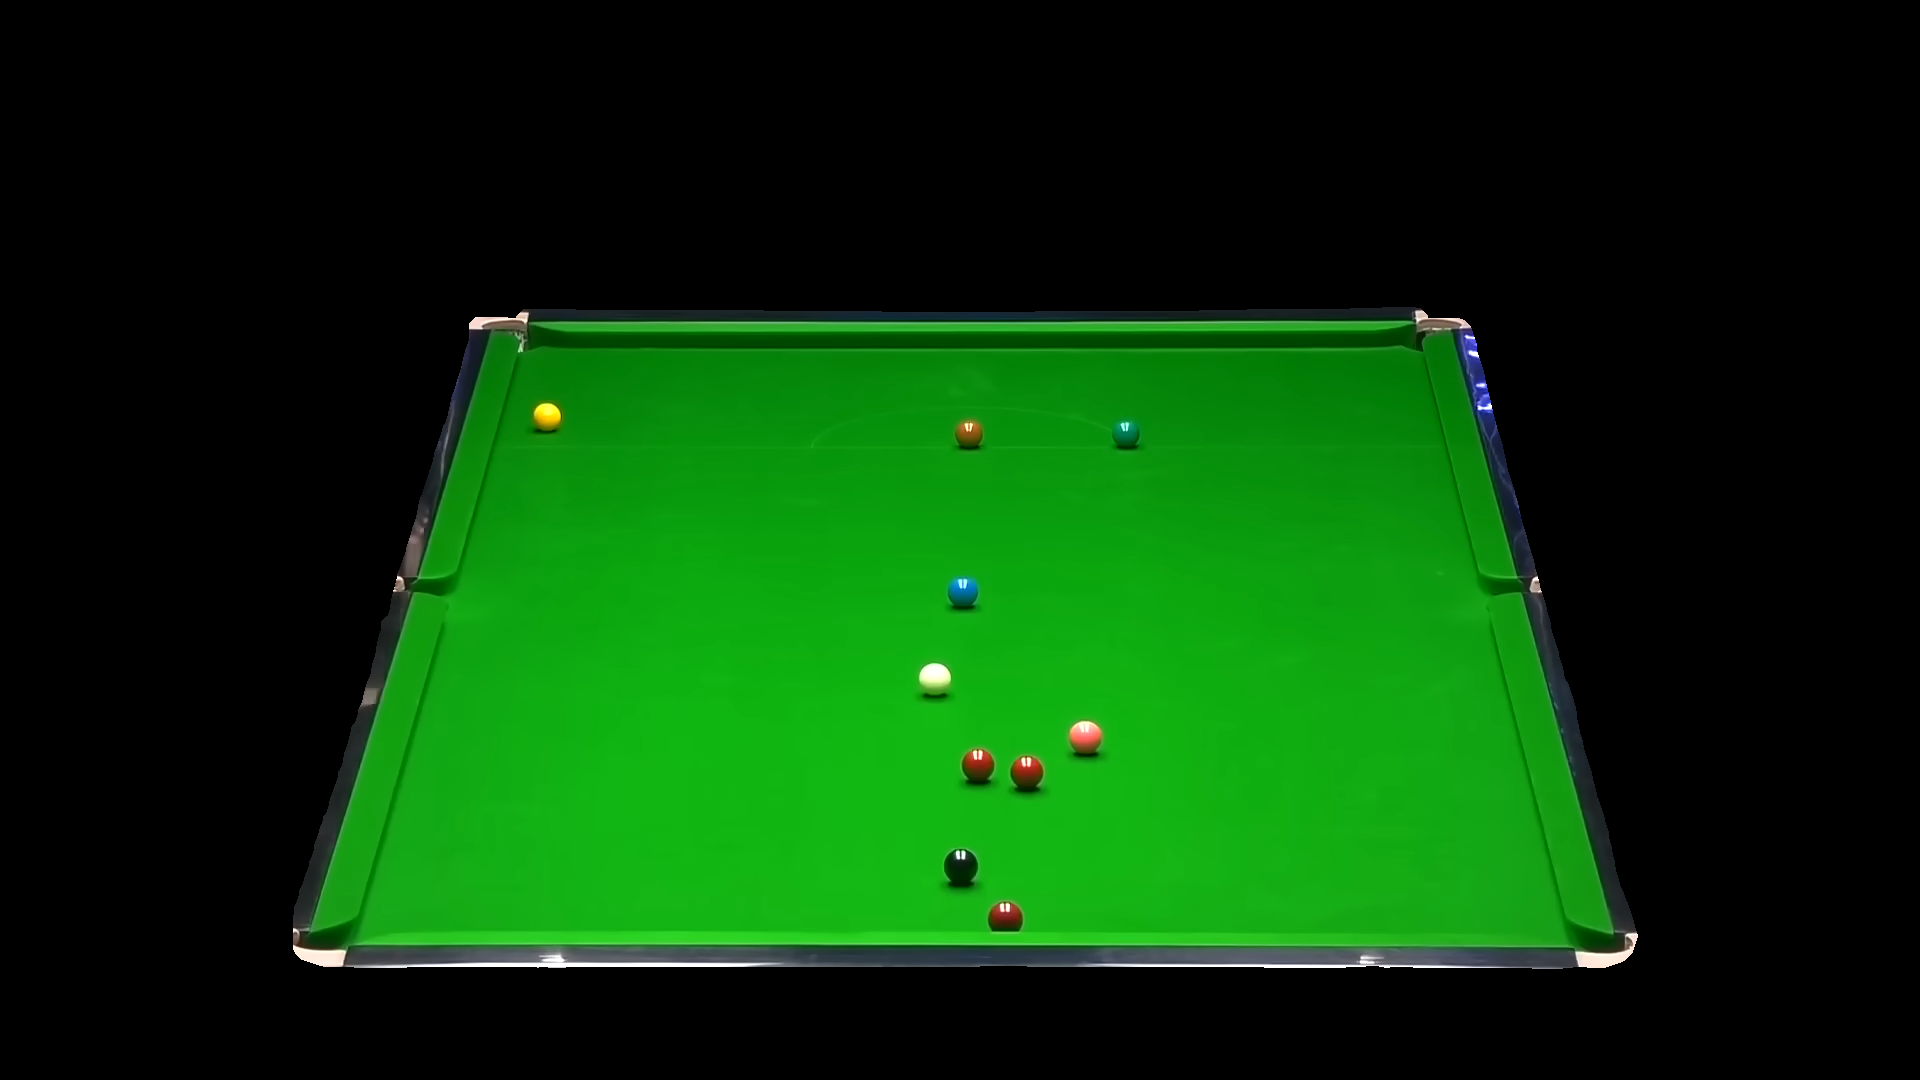
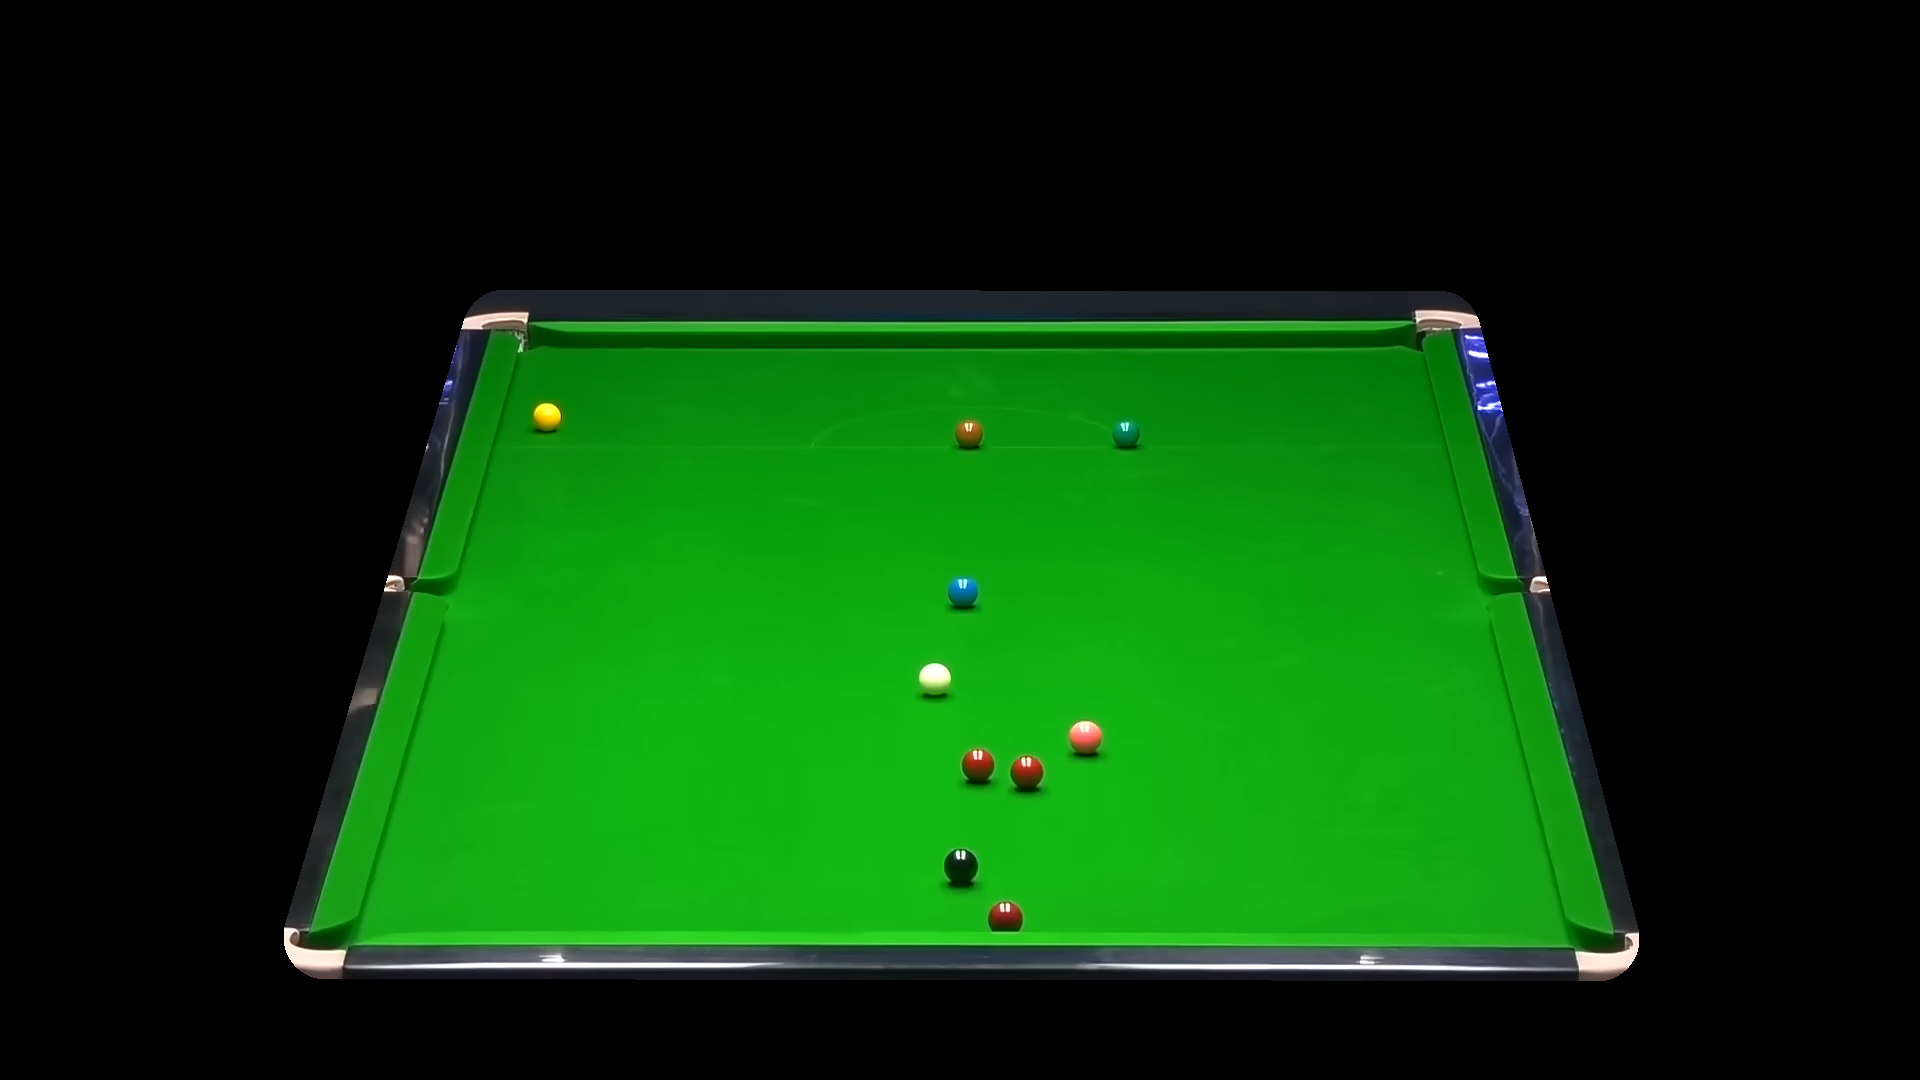
Add rough lines and masking from pockets

diff --git a/find_edges.py b/find_edges.py
@@ -122,6 +122,18 @@ def enlarge(mask, size_increase):
 
     return mask
 
+def sort_corners(corners):
+    mean_x = (corners[0][0] + \
+                corners[1][0] + \
+                corners[2][0] + \
+                corners[3][0]) / 4
+    mean_y = (corners[0][1] + \
+                corners[1][1] + \
+                corners[2][1] + \
+                corners[3][1]) / 4
+    
+    return np.array(sorted(corners, key=lambda point: np.arctan2((point[1]-mean_y), (point[0]-mean_x))))
+
 def line_mask(rho, theta, thickness, image_size):
     mask = np.zeros(image_size, dtype=np.uint8)
     cos_theta = np.cos(theta)
@@ -202,6 +214,120 @@ def get_sam_lines(mask_file=""):
 
     return lines, dilated_mask
 
+def get_lines_from_pockets(image_file, pockets):
+    # lines= [[[rho1, theta1]], [[rho2, theta2]], ...]:
+    # [[[ 9.4500000e+02  1.5707964e+00]]
+    #  [[ 3.2500000e+02  1.5707964e+00]]
+    #  [[-1.3160000e+03  2.8797932e+00]]
+    #  [[ 5.6600000e+02  2.9670596e-01]]]
+
+    # Get centres of boxes
+    pocket_points = []
+    for box in pockets["boxes"]:
+        x = (box[0] + box[2]) / 2
+        y = (box[1] + box[3]) / 2
+        pocket_points.append([x, y])
+    
+
+    # Make sure there are enough pockets detected
+    assert len(pocket_points) == 6, f"Not enough pockets detected; {len(pockets)} detected, 6 needed"
+    
+
+    # Identify which pockets are corners
+    side_pocket_idx = []
+
+    for i in range(len(pocket_points)):
+        x1 = pocket_points[i][0]
+        y1 = pocket_points[i][1]
+
+        vecs = []
+
+        for j in range(0, len(pocket_points)):
+            if i != j:
+                x2 = pocket_points[j][0]
+                y2 = pocket_points[j][1]
+
+                vec = np.array([x2-x1, y2-y1])
+
+                for k in range(len(vecs)):
+                    cos_theta = np.dot(vec, vecs[k]) / (np.linalg.norm(vec) * np.linalg.norm(vecs[k]))
+                    dtheta = np.arccos(np.clip(cos_theta, -1, 1))
+
+                    # print(pocket_points[i], pocket_points[j], pocket_points[k+1],180- np.rad2deg(dtheta))
+
+                    dtheta_threshold = 7 # degrees
+                    if dtheta > np.deg2rad(180-dtheta_threshold):
+                        # These three points are nearly colinear, so either vec or vecs[k] is the vector to the middle
+                        side_pocket_idx.append(i)
+
+                vecs.append(vec)
+
+    # print(side_pocket_idx)
+    
+    corners = []
+    for i in range(len(pocket_points)):
+        if not i in side_pocket_idx:
+            corners.append(pocket_points[i])
+    
+    corners = sort_corners(corners)
+
+    dists = []
+    for i in range(len(corners)):
+        for j in range(i+1, len(corners)):
+            x1 = corners[i][0]
+            x2 = corners[i][1]
+            y1 = corners[j][0]
+            y2 = corners[j][1]
+
+            dists.append(np.linalg.norm([x2-x1, y2-y1]))
+    
+    max_dist = max(dists)
+
+    assert len(corners) == 4, f"Wrong number of corners detected; detected {len(corners)}, needed 4"
+
+    # Get lines which go through corners
+    lines = []
+
+    for i in range(4):
+        x1 = corners[i][0]
+        y1 = corners[i][1]
+        x2 = corners[(i+1)%4][0]
+        y2 = corners[(i+1)%4][1]
+        # print(f"[{x1}, {y1}], [{x2}, {y2}]")
+
+        theta = np.arctan2(y2-y1, x2-x1) + np.pi/2
+
+        unit_vec = np.array([np.cos(theta), np.sin(theta)])
+        rho = np.dot(unit_vec, np.array([x1, y1]))
+
+        # if abs(np.cos(theta)) > abs(np.sin(theta)):
+        #     rho = x1/np.cos(theta)
+        # else:
+        #     rho = y1/np.sin(theta)
+
+        lines.append([[rho, theta]])
+
+    image = cv2.imread(image_file)
+    
+    plt.figure("Lines from NN pockets")
+    plt.title("Lines from NN pockets")
+    plt.imshow(image)
+    plotLinesPolar(lines, image.shape, "red")
+    
+    # Make mask
+    mask = np.zeros(image.shape[:2], dtype=np.uint8)
+    corners = np.array([corners], dtype=np.int32)
+    cv2.fillPoly(mask, corners, color=1)  # Set color to 1 for binary mask
+    print(max_dist)
+    mask = dilate(mask, int(max_dist/15))
+
+    plt.figure("Dilated mask")
+    plt.title("Dilated mask")
+    plt.imshow(mask)
+    plotLinesPolar(lines, mask.shape, "red")
+
+    return lines, mask
+
 def get_edges(image_file, informing_lines, mask):
     # Get lines for original image
     image = cv2.imread(image_file)
@@ -234,17 +360,6 @@ def get_edges(image_file, informing_lines, mask):
 
 def get_rect_corners(lines):
     # following this process: https://stackoverflow.com/a/42904725
-    def sort_corners(corners):
-        mean_x = (corners[0][0] + \
-                  corners[1][0] + \
-                  corners[2][0] + \
-                  corners[3][0]) / 4
-        mean_y = (corners[0][1] + \
-                  corners[1][1] + \
-                  corners[2][1] + \
-                  corners[3][1]) / 4
-        
-        return np.array(sorted(corners, key=lambda point: np.arctan2((point[1]-mean_y), (point[0]-mean_x))))
 
     point_owners = [[], [], [], []]
     points = []

diff --git a/main.py b/main.py
@@ -3,10 +3,15 @@ import sam
 import numpy as np
 import matplotlib.pyplot as plt
 import pytorch_detection_eval
+import cv2
 
 
 
 image_file = "images\\snooker1.png"
+# image_file = "images\\terrace.jpg"
+# image_file = 'data/Pockets, cushions, table - 2688 - B&W, rotated, mostly 9 ball/real_test/images/snooker2.jpg'
+# image_file = "images\\snooker2.jpg"
+image = cv2.imread(image_file)
 # sam.create_mask(
 #     image_file=image_file,
 #     input_points = np.array([[600, 600], [1300, 600], [1625, 855]]),
@@ -21,12 +26,16 @@ image_file = "images\\snooker1.png"
 
 
 pockets = pytorch_detection_eval.get_boxes(image_file)
-
 # plt.show()
 
 
-sam_lines, sam_mask = find_edges.get_sam_lines()
-edges = find_edges.get_edges(image_file, sam_lines, sam_mask)
+
+# sam_lines, sam_mask = find_edges.get_sam_lines()
+# edges = find_edges.get_edges(image_file, sam_lines, sam_mask)
+
+pocket_lines, pocket_mask = find_edges.get_lines_from_pockets(image_file, pockets)
+# plt.show()
+edges = find_edges.get_edges(image_file, pocket_lines, pocket_mask)
 
 
 
@@ -34,14 +43,11 @@ edges = find_edges.get_edges(image_file, sam_lines, sam_mask)
 #     [[ 3.21000000e+02,  1.57079637e+00]],
 #     [[-1.31600000e+03,  2.87979317e+00]],
 #     [[ 5.68000000e+02,  2.96705961e-01]]]) # lines which don't have any parallel
-
 # edges = np.array([[[ 9.44000000e+02,  1.57079637e+00]],
 #     [[ 3.21000000e+02,  1.57079637e+00]],
 #     [[ 1.31600000e+03,  0]],
 #     [[ 5.68000000e+02,  0]]]) # lines which don't have 2 pairs parallel
-
 corners = find_edges.get_rect_corners(edges)
-
 # print(corners)
 
 
@@ -55,14 +61,10 @@ corners = find_edges.get_rect_corners(edges)
 #
 # Cushion height = 1.75" = 44.45mm
 # Ball diameter = 52.5mm
-
 homography = find_edges.get_homography(corners, [1854, 3683])
 # print(homography)
-
 projection = find_edges.get_perspective(corners, [1854, 3683])
-
 temp = np.dot(projection, np.array([0, 0, 0, 1]))
-
 # print(temp/temp[2])
 
 
@@ -71,7 +73,6 @@ balls_homography = find_edges.get_balls_homography(homography, 44.45 - 52.5/2)
 
 
 [x, y] = find_edges.get_world_point([1448, 321], homography)
-
 # print(f"Transformed World Coordinates: ({x}, {y})")
 
 
@@ -84,7 +85,6 @@ img_balls = find_edges.find_balls(image_file[:-4] + "-masked.png")
 #  [1445, 325],
 #  [1615.36764586, 944.00007061],
 #  [ 305.34316018, 944.00001335]]
-
 real_balls = []
 for ball in img_balls:
     real_balls.append(find_edges.get_world_point(ball, homography))
